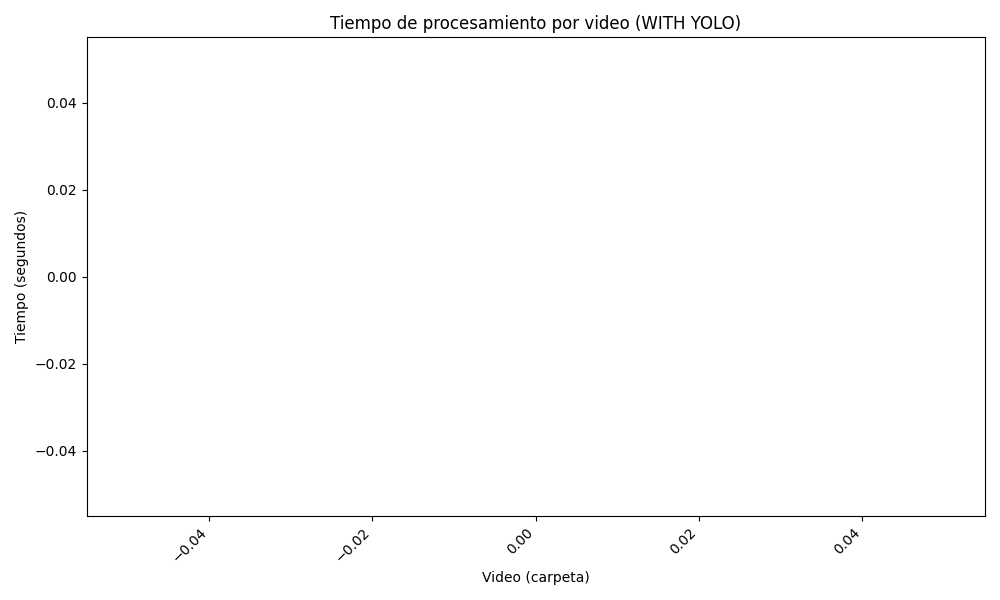
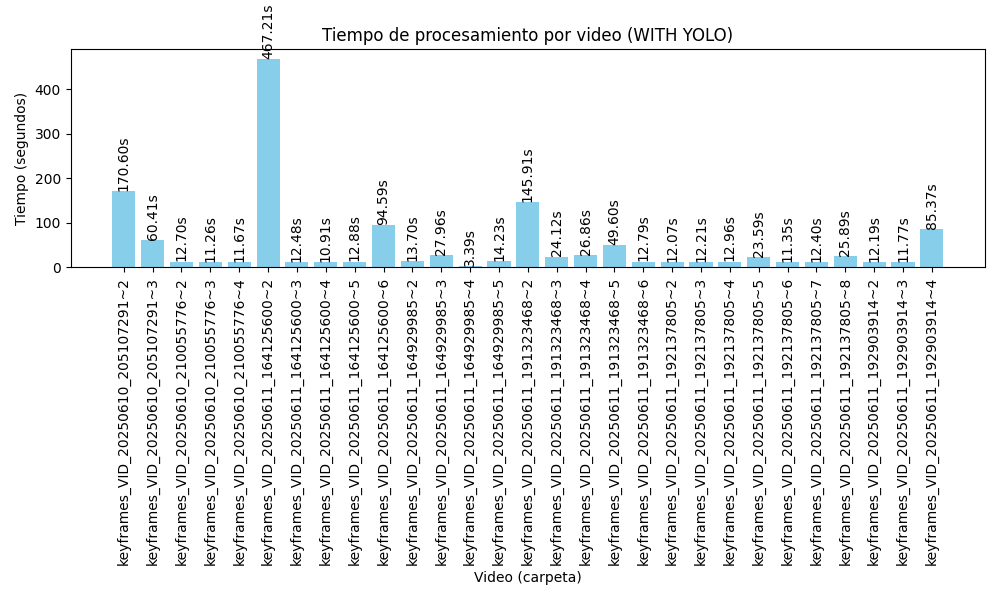
Corrección en las gráficas de los 3 chatbots

diff --git a/YOLO/chatbot_Json.py b/YOLO/chatbot_Json.py
@@ -166,6 +166,14 @@ class Chatbot_YOLO_JSON():
                 end = time.time()
                 print(f"Imagen {carpeta}/{image_name} procesada en {end - start:.2f} segundos.")
 
+                end = time.time()
+                duracion = end - start
+
+                if carpeta not in tiempos_por_video:
+                    tiempos_por_video[carpeta] = 0
+
+                tiempos_por_video[carpeta] += duracion
+
         for carpeta, narrativas in narrativas_por_carpeta.items():
             resumen_prompt = (
                     f"Has recibido una serie de narrativas que corresponden a imágenes extraídas de un video de vigilancia "
@@ -184,20 +192,29 @@ class Chatbot_YOLO_JSON():
             self.guardar_narrativa_general(carpeta, narrativa_general)
 
         print(f"\n✅ (JSON) Tiempo total: {time.time() - start_global:.2f} segundos.")
-        end = time.time()
-        duracion = end - start
-        tiempos_por_video[carpeta] = duracion
 
         # Graficar tiempos por video
         videos = list(tiempos_por_video.keys())
         tiempos = list(tiempos_por_video.values())
         plt.figure(figsize=(10, 6))
-        plt.bar(videos, tiempos, color='skyblue')
+        bars = plt.bar(videos, tiempos, color='skyblue')
 
         plt.title("Tiempo de procesamiento por video (JSON)")
         plt.xlabel("Video (carpeta)")
         plt.ylabel("Tiempo (segundos)")
-        plt.xticks(rotation=45, ha='right')
+        plt.xticks(rotation=90, ha='right')
+
+        for bar, tiempo in zip(bars, tiempos):
+            altura = bar.get_height()
+            plt.text(
+                bar.get_x() + bar.get_width() / 2,
+                altura + 0.5,
+                f"{tiempo:.2f}s",
+                ha='center',
+                va='bottom',
+                rotation=90
+            )
+
         plt.tight_layout()
         plt.savefig("tiempos_por_video_WITH_JSON.png")
         plt.show()

diff --git a/YOLO/chatbot_NoYolo.py b/YOLO/chatbot_NoYolo.py
@@ -158,6 +158,14 @@ class Chatbot_WITHOUT_YOLO():
                 end = time.time()
                 print(f"Imagen {carpeta}/{image_name} procesada en {end - start:.2f} segundos.")
 
+                end = time.time()
+                duracion = end - start
+
+                if carpeta not in tiempos_por_video:
+                    tiempos_por_video[carpeta] = 0
+
+                tiempos_por_video[carpeta] += duracion
+
         # Generar narrativa global por carpeta/video
         for carpeta, narrativas in narrativas_por_carpeta.items():
             resumen_prompt = (
@@ -176,20 +184,29 @@ class Chatbot_WITHOUT_YOLO():
             self.guardar_narrativa_general(carpeta, narrativa_general)
 
         print(f"\n(NO YOLO) ✅ Tiempo total: {time.time() - start_global:.2f} segundos.")
-        end = time.time()
-        duracion = end - start
-        tiempos_por_video[carpeta] = duracion
 
         # Graficar tiempos por video
         videos = list(tiempos_por_video.keys())
         tiempos = list(tiempos_por_video.values())
         plt.figure(figsize=(10, 6))
-        plt.bar(videos, tiempos, color='skyblue')
+        bars = plt.bar(videos, tiempos, color='skyblue')
 
         plt.title("Tiempo de procesamiento por video (WITHOUT YOLO)")
         plt.xlabel("Video (carpeta)")
         plt.ylabel("Tiempo (segundos)")
-        plt.xticks(rotation=45, ha='right')
+        plt.xticks(rotation=90, ha='right')
+
+        for bar, tiempo in zip(bars, tiempos):
+            altura = bar.get_height()
+            plt.text(
+                bar.get_x() + bar.get_width() / 2,
+                altura + 0.5,
+                f"{tiempo:.2f}s",
+                ha='center',
+                va='bottom',
+                rotation=90
+            )
+
         plt.tight_layout()
         plt.savefig("tiempos_por_video_WITHOUT_YOLO.png")
         plt.show()

diff --git a/YOLO/chatbot_WithYolo.py b/YOLO/chatbot_WithYolo.py
@@ -158,6 +158,14 @@ class Chatbot_WITH_YOLO():
                 end = time.time()
                 print(f"Imagen {carpeta}/{image_name} procesada en {end - start:.2f} segundos.")
 
+                end = time.time()
+                duracion = end - start
+
+                if carpeta not in tiempos_por_video:
+                    tiempos_por_video[carpeta] = 0
+
+                tiempos_por_video[carpeta] += duracion
+
         # Generar narrativa global por carpeta/video
         for carpeta, narrativas in narrativas_por_carpeta.items():
             resumen_prompt = (
@@ -177,20 +185,28 @@ class Chatbot_WITH_YOLO():
 
         print(f"\n✅ (WITH YOLO) Tiempo total: {time.time() - start_global:.2f} segundos.")
 
-        end = time.time()
-        duracion = end - start
-        tiempos_por_video[carpeta] = duracion
-
         # Graficar tiempos por video
         videos = list(tiempos_por_video.keys())
         tiempos = list(tiempos_por_video.values())
         plt.figure(figsize=(10, 6))
-        plt.bar(videos, tiempos, color='skyblue')
+        bars = plt.bar(videos, tiempos, color='skyblue')
 
         plt.title("Tiempo de procesamiento por video (WITH YOLO)")
         plt.xlabel("Video (carpeta)")
         plt.ylabel("Tiempo (segundos)")
-        plt.xticks(rotation=45, ha='right')
+        plt.xticks(rotation=90, ha='center')
+
+        for bar, tiempo in zip(bars, tiempos):
+            altura = bar.get_height()
+            plt.text(
+                bar.get_x() + bar.get_width() / 2,
+                altura + 0.5,
+                f"{tiempo:.2f}s",
+                ha='center',
+                va='bottom',
+                rotation=90
+            )
+
         plt.tight_layout()
         plt.savefig("tiempos_por_video_WITH_YOLO.png")
         plt.show()

diff --git a/YOLO/comparador_chatbots.py b/YOLO/comparador_chatbots.py
@@ -61,7 +61,7 @@ class ComparadorChatbots:
         plt.ylabel("Tiempo (segundos)")
         plt.savefig("tiempos_global.png")
         for i, v in enumerate(valores):
-            plt.text(i, v + 1, f"{v:.2f}s", ha='center')
+            plt.text(i, v + 0.5, f"{v:.2f}s", ha='center', va='bottom')
         plt.tight_layout()
         plt.show()
 
